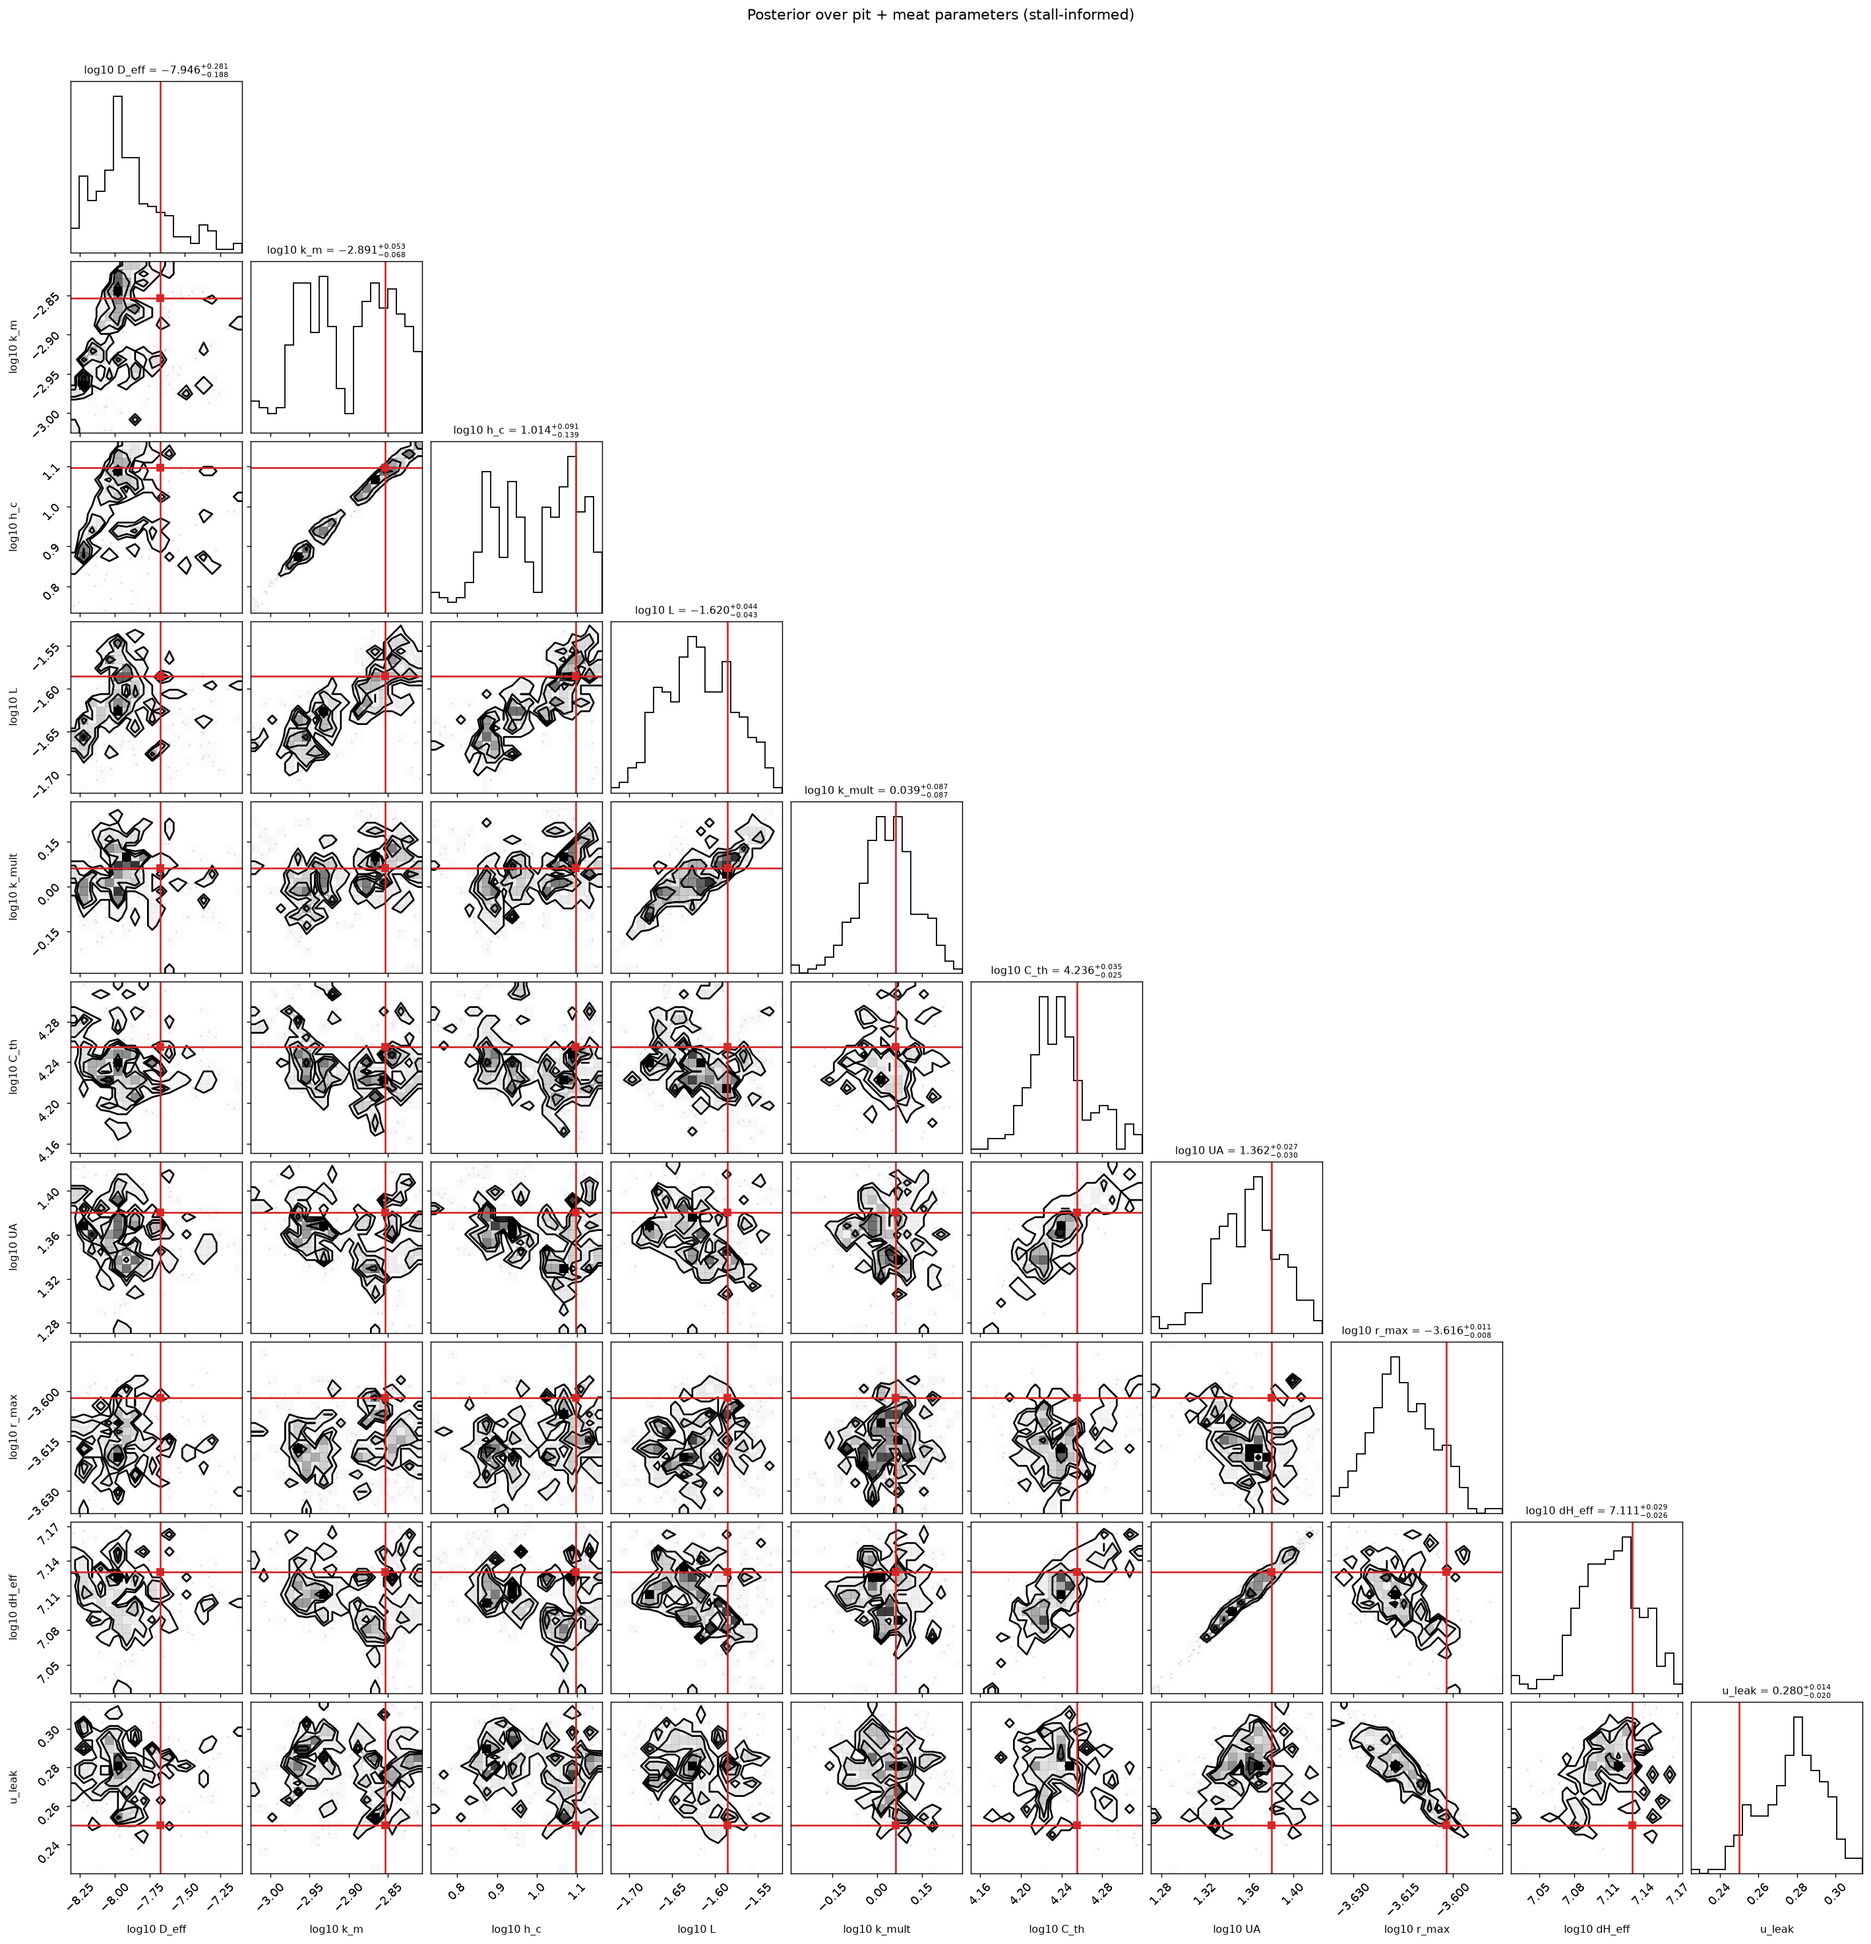
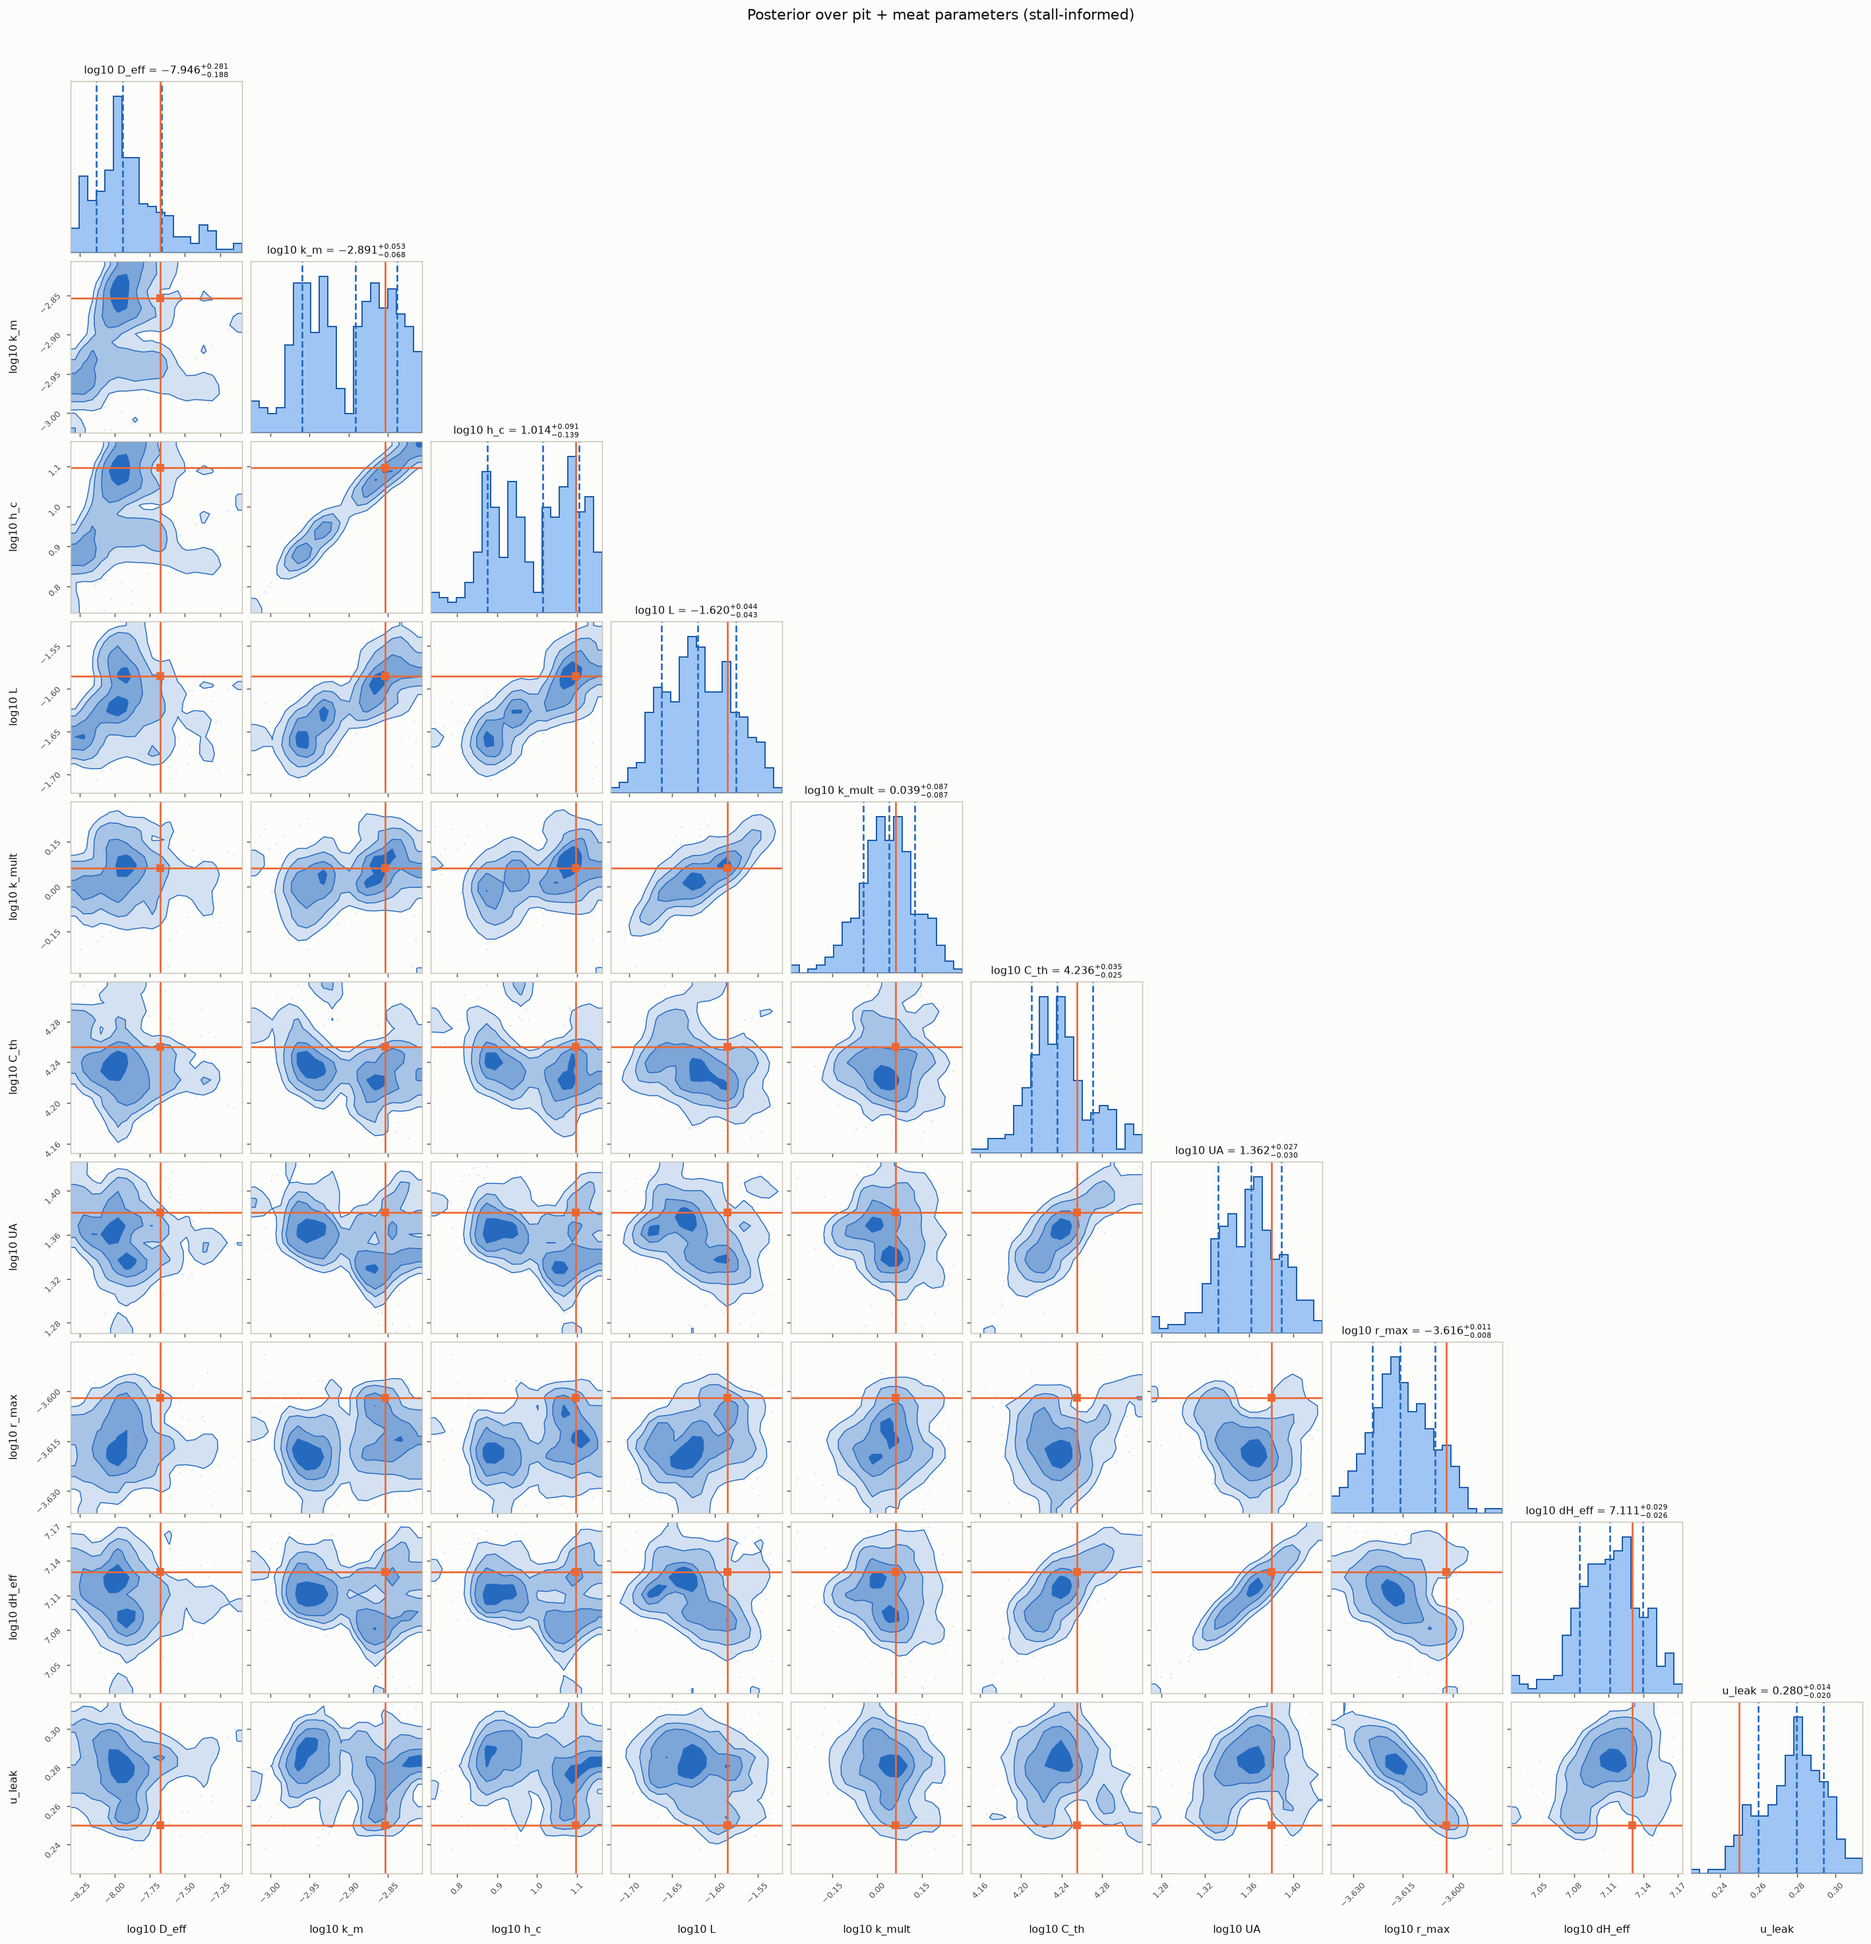
Corner plot restyle: sequential blues + orange truth accent
One-hue blue density (filled contours, stepfilled marginals, quantile
dashes), orange reserved for truth cross-hairs (CVD-safe pair), recessive
chrome. corner_real.png inherits on NUTS-real completion.

Changed region(s): [[0.031, 0.0312, 1.0, 0.9678]]

diff --git a/app/src/brisket_app/plots.py b/app/src/brisket_app/plots.py
@@ -48,13 +48,33 @@ def corner_plot(samples: dict, out_path: Path, truths: dict | None = None,
             if truths is not None:
                 truth_vals.append(truths[n])
     data = np.column_stack(cols)
+    # One-hue sequential blues carry the density (2D contours + 1D marginals);
+    # orange is the single accent, reserved for the truth cross-hairs.
+    BLUE, BLUE_DARK, BLUE_LIGHT, ORANGE = "#256abf", "#1c5cab", "#9ec5f4", "#eb6834"
+    INK, MUTED, BASELINE, SURFACE = "#0b0b0b", "#52514e", "#c3c2b7", "#fcfcfb"
     fig = corner_mod.corner(
-        data, labels=labels, truths=truth_vals, truth_color="tab:red",
-        show_titles=True, title_fmt=".3f", title_kwargs={"fontsize": 9},
-        label_kwargs={"fontsize": 9},
+        data, labels=labels, truths=truth_vals, truth_color=ORANGE,
+        color=BLUE, fill_contours=True, smooth=1.0,
+        plot_datapoints=True,
+        data_kwargs={"color": BLUE_LIGHT, "alpha": 0.4, "ms": 1.5},
+        contour_kwargs={"linewidths": 0.8},
+        hist_kwargs={"histtype": "stepfilled", "facecolor": BLUE_LIGHT,
+                     "edgecolor": BLUE_DARK, "linewidth": 1.1},
+        quantiles=[0.16, 0.5, 0.84],
+        show_titles=True, title_fmt=".3f",
+        title_kwargs={"fontsize": 9, "color": INK},
+        label_kwargs={"fontsize": 9, "color": INK},
     )
-    fig.suptitle("Posterior over pit + meat parameters (stall-informed)", y=1.02)
-    fig.savefig(out_path, dpi=130, bbox_inches="tight")
+    fig.patch.set_facecolor(SURFACE)
+    for ax in fig.axes:
+        ax.set_facecolor(SURFACE)
+        ax.tick_params(colors=MUTED, labelsize=7)
+        for spine in ax.spines.values():
+            spine.set_color(BASELINE)
+    fig.suptitle("Posterior over pit + meat parameters (stall-informed)",
+                 y=1.02, color=INK)
+    fig.savefig(out_path, dpi=130, bbox_inches="tight",
+                facecolor=fig.get_facecolor())
     plt.close(fig)
     return out_path
 
